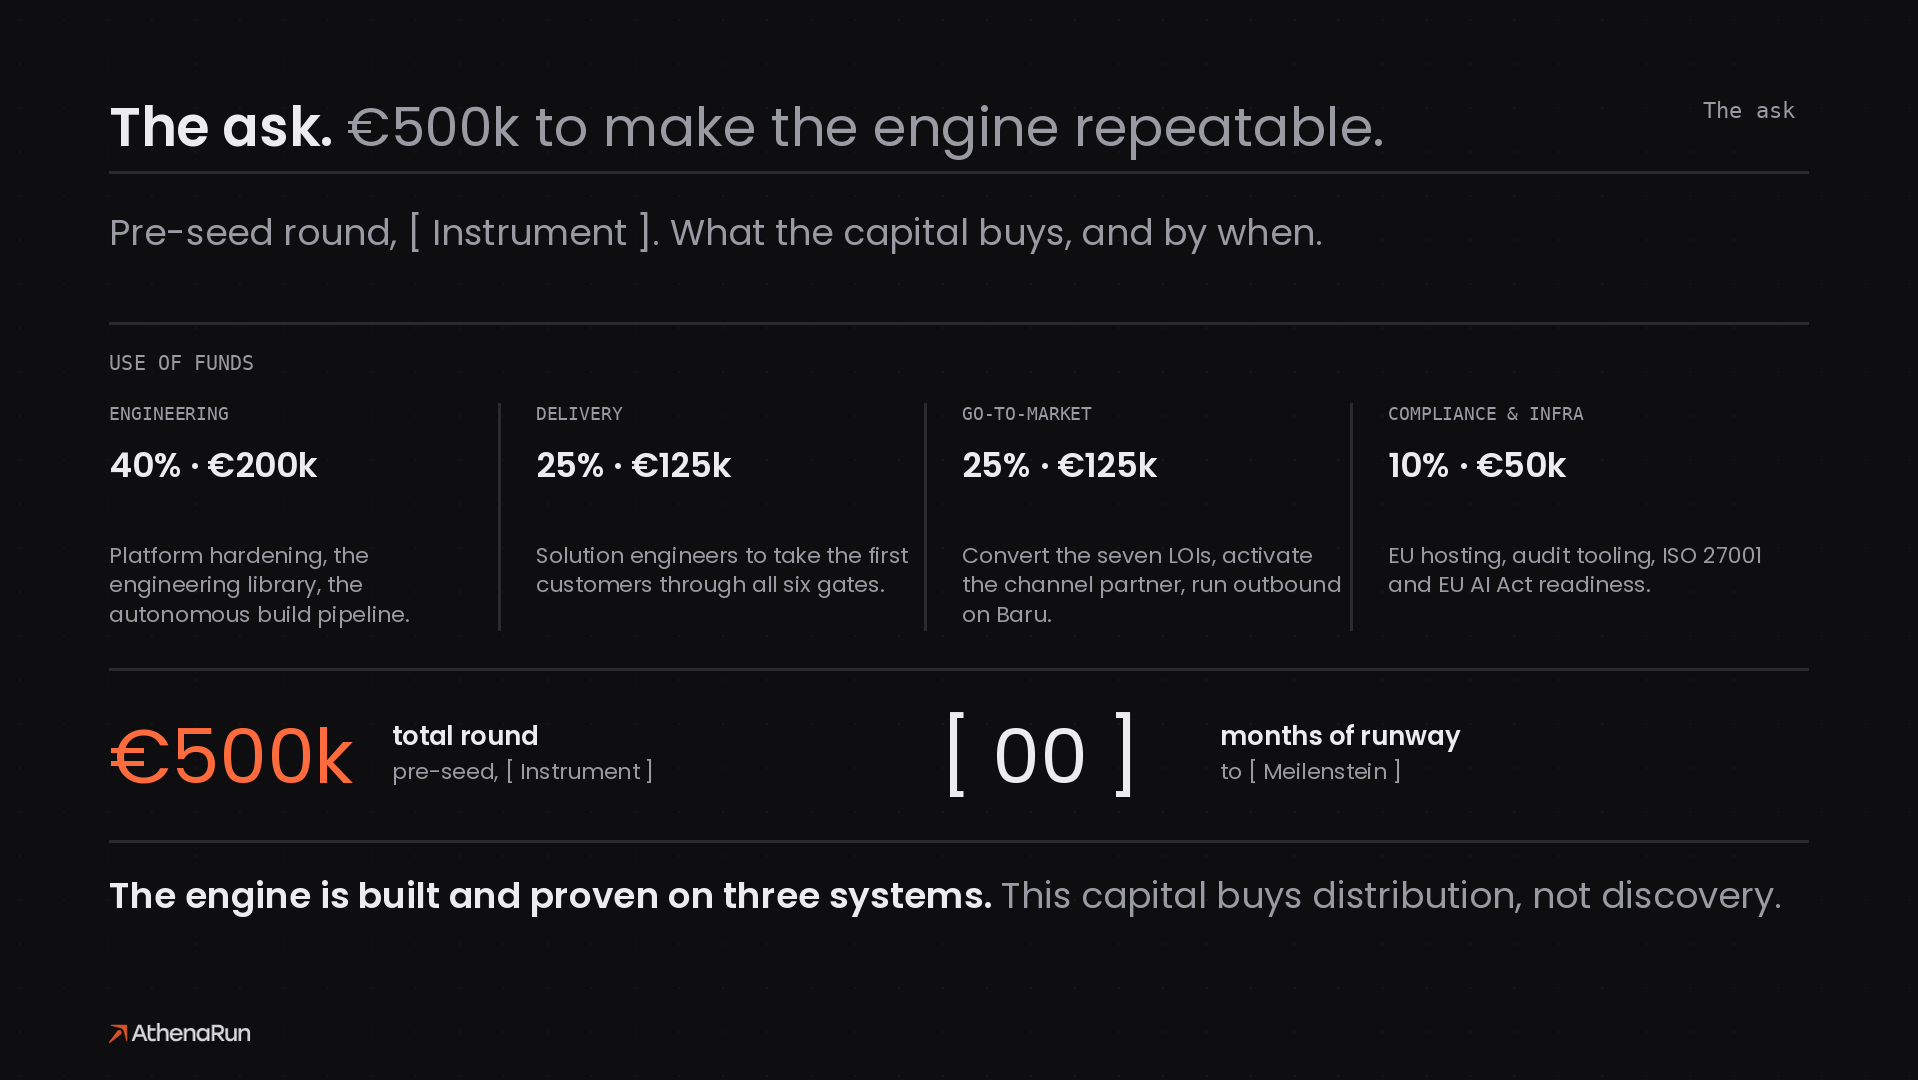
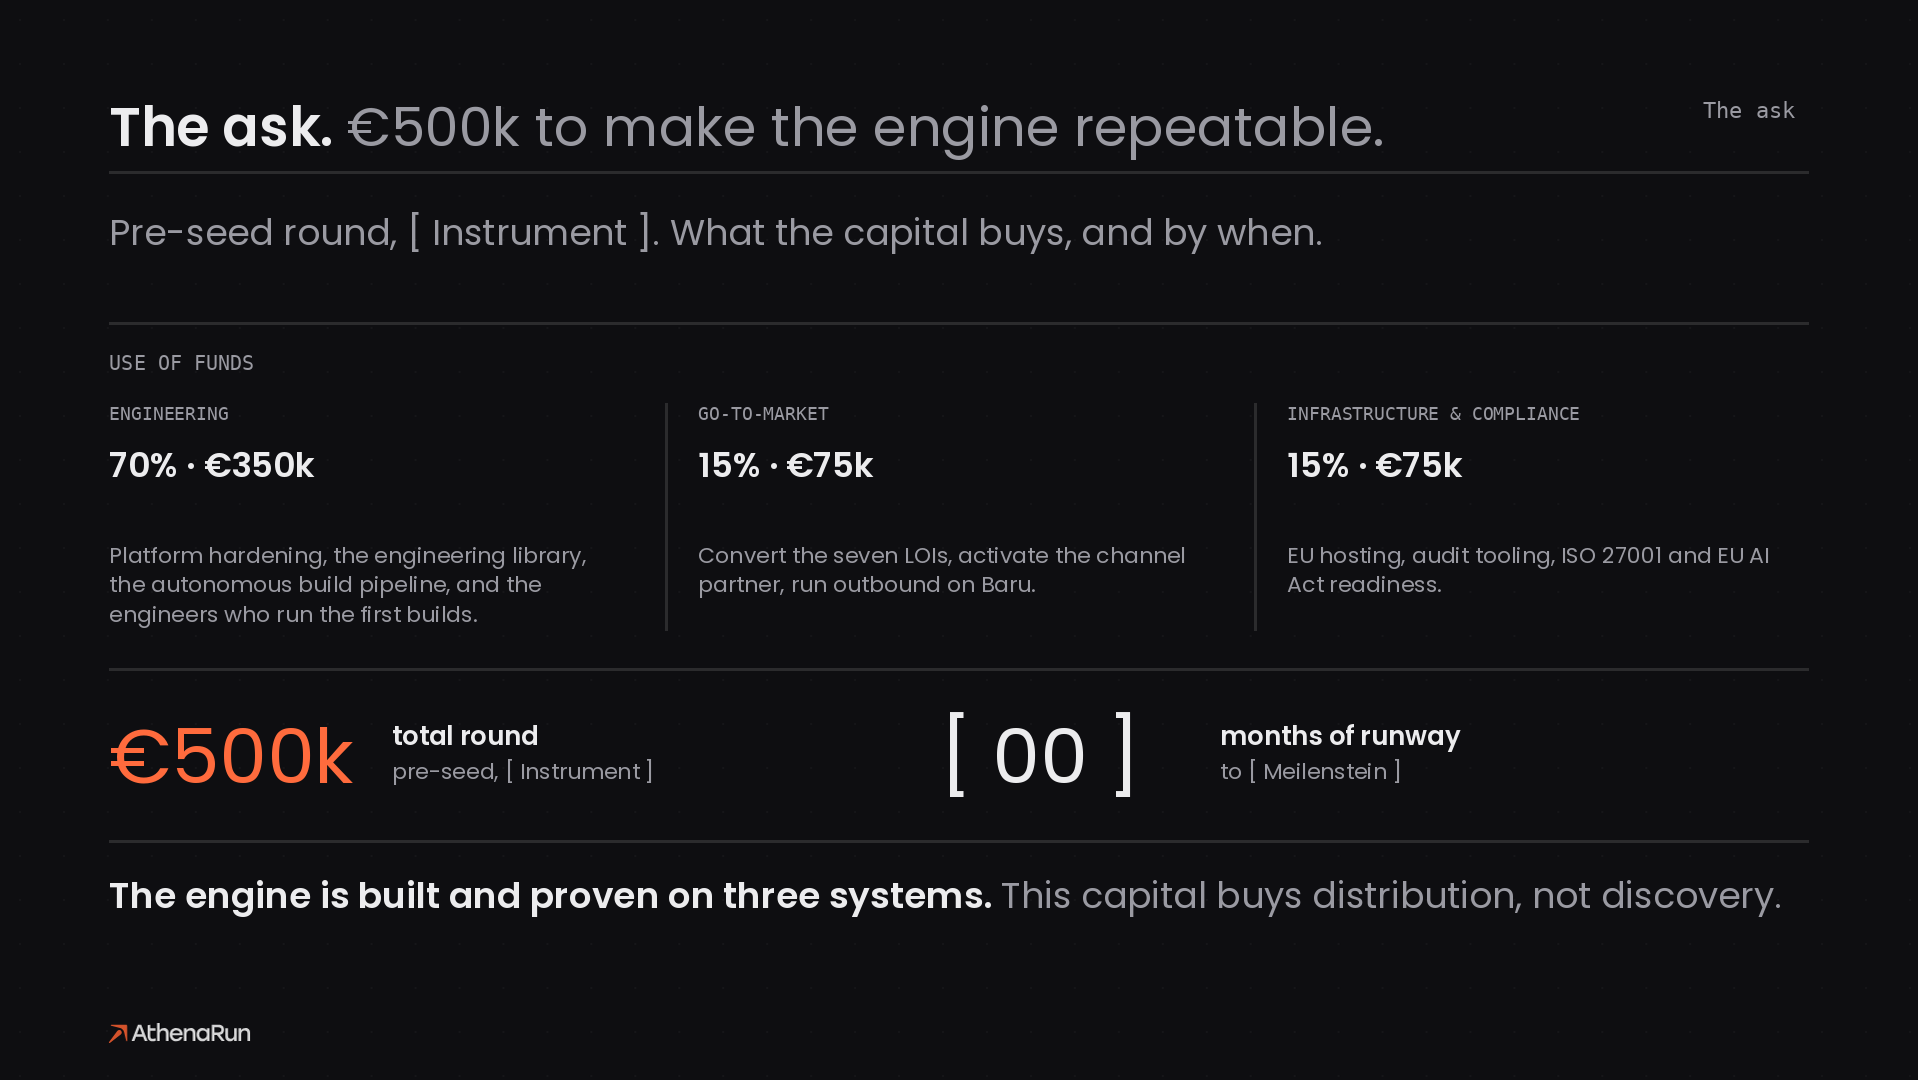
Pitch deck: Mittelverwendung auf 70/15/15 umgestellt
Engineering 70 % (350k), Go-to-Market 15 % (75k), Infrastructure &
Compliance 15 % (75k). Delivery als eigener Posten entfaellt, die
Delivery-Kapazitaet ist in die Engineering-Beschreibung gezogen, damit die
Slide die Frage "wer liefert dann aus" nicht offen laesst.

Die Ask-Slide ist damit von vier auf drei Spalten umgebaut: verbleibende
Spalten auf das 3-Spalten-Raster (54,7 / 349,2 / 643,7 mit Breite 259,9),
vertikale Trenner auf 332,6 und 627,1, ein Trenner entfernt.

Claude-Session: https://claude.ai/code/session_01JZsVLFh6S3QVvWf8D6qeKq

diff --git a/pitch-deck/README.md b/pitch-deck/README.md
@@ -57,7 +57,19 @@ schlicht falsch gemessen.
 Auf Slide 12: die drei Preisfelder (`[ Fixpreis ]`, `[ pro Monat ]`,
 `[ pro Jahr ]`).
 Auf Slide 14: `[ Instrument ]`, die Laufzeit `[ 00 ]` Monate und
-`[ Meilenstein ]`. Die Aufteilung 40/25/25/10 ist ein Vorschlag.
+`[ Meilenstein ]`.
+
+Mittelverwendung auf Basis von €500k:
+
+| Posten | Anteil | Betrag |
+|---|---|---|
+| Engineering | 70 % | €350.000 |
+| Go-to-Market | 15 % | €75.000 |
+| Infrastructure & Compliance | 15 % | €75.000 |
+| **Summe** | **100 %** | **€500.000** |
+
+Delivery ist als eigener Posten entfallen; die Delivery-Kapazität steckt in
+der Engineering-Beschreibung.
 
 ## Offene Punkte im Deck
 
